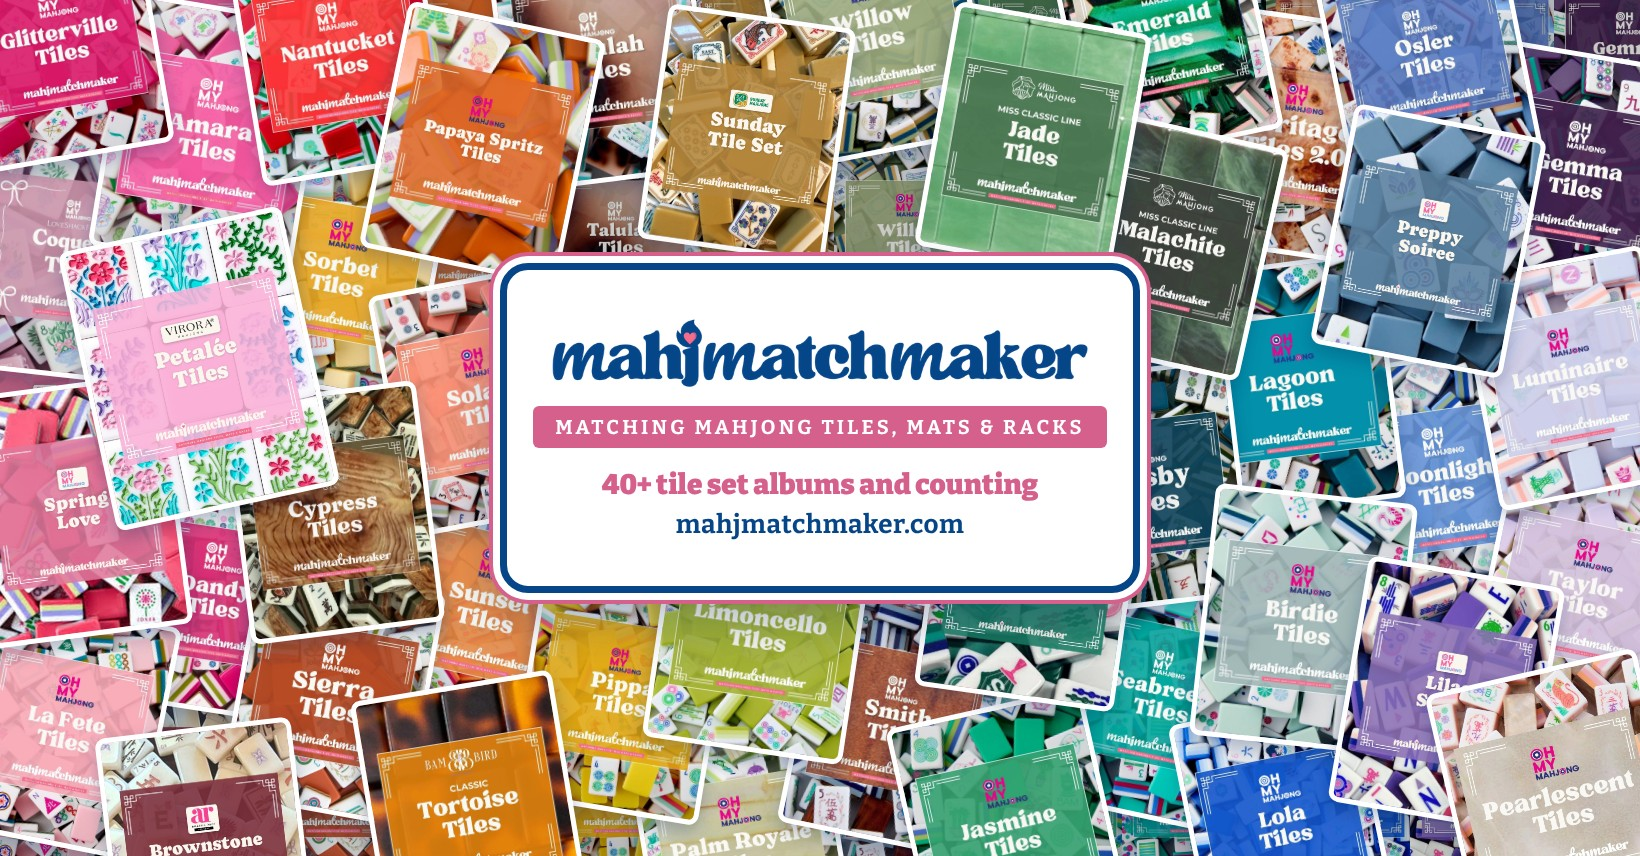
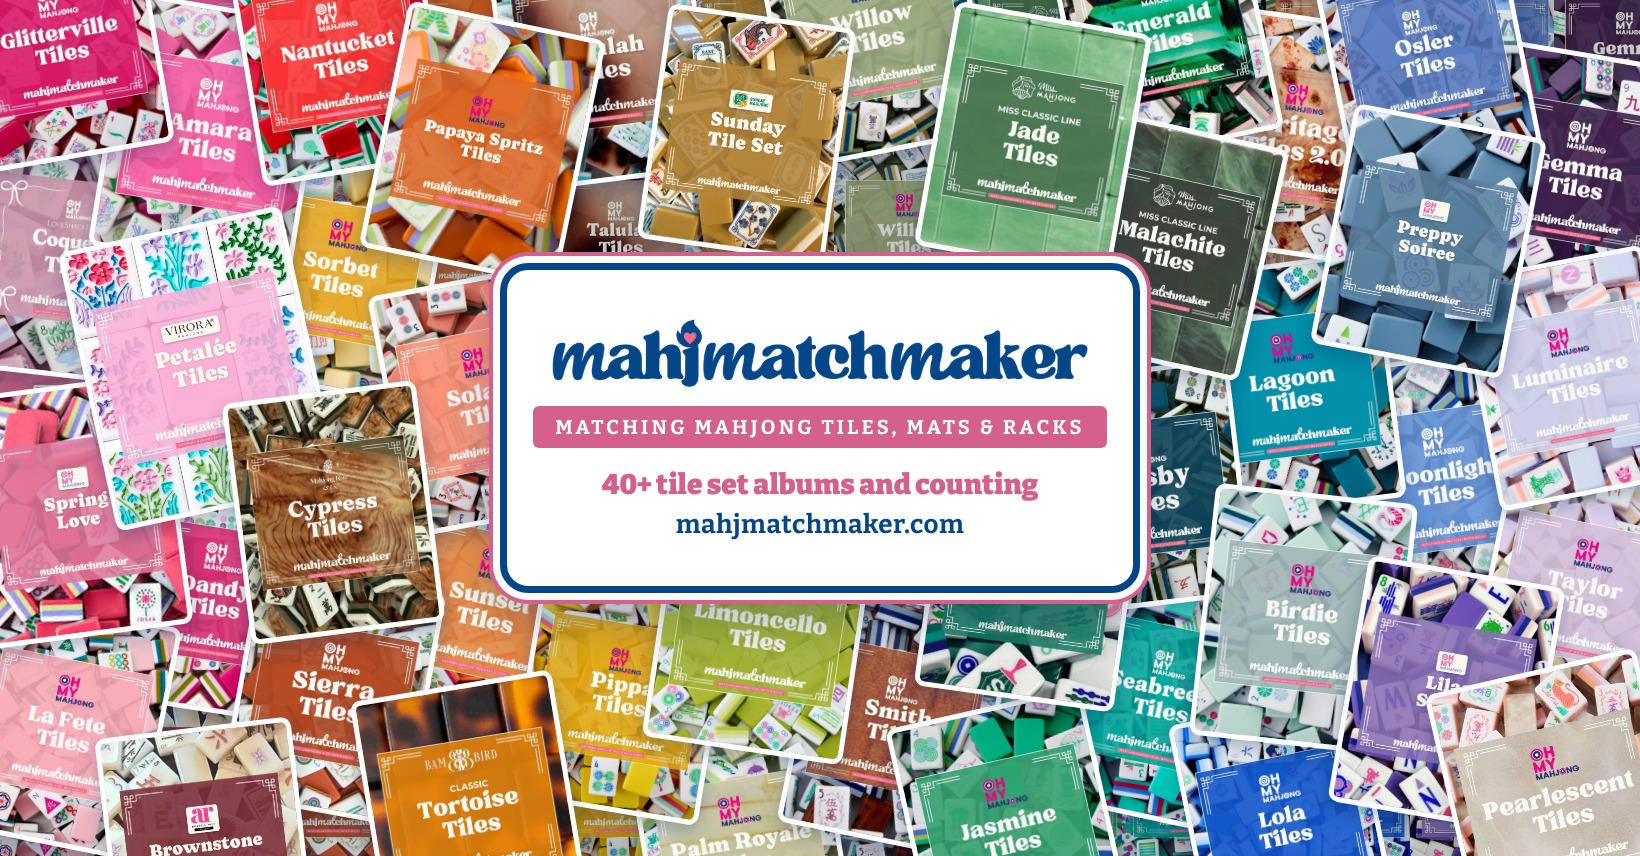
FB cover v6: Petalee's bottom-right corner tucked behind Cypress (her approved tweak)
Claude-Session: https://claude.ai/code/session_014aKoC1ZMdZPjGkZ9kHhnLk

Changed region(s): [[0.1244, 0.4556, 0.2177, 0.6075]]

diff --git a/scripts/fbcover/build_rainbow_v6.py b/scripts/fbcover/build_rainbow_v6.py
@@ -75,6 +75,11 @@ for gy in range(-40,H+40,uh-6):
 z=list(range(1,len(slots)+1));random.shuffle(z)
 NEW={'jade','tortoise','sunday','papaya-spritz','petalee','brownstone','lilac-soiree','preppy-soiree','shangri-la','spring-love'}
 z=[zz+(400 if assign[slots[k]] in NEW else 0)+(40 if assign[slots[k]] in ('papaya-spritz','petalee','jade') else 0)+(20 if assign[slots[k]]=='malachite' else 0)+(600 if assign[slots[k]]=='pearlescent' else 0)-(30 if assign[slots[k]]=='lilac-soiree' else 0) for k,zz in enumerate(z)]
+# Oct 18 (Tiffany): tuck Petalee's bottom-right corner behind Cypress -> nearest Cypress card to Petalee's lower right sits above it
+_pk=[k for k,s in enumerate(slots) if assign[s]=='petalee'][0]; _ps=slots[_pk]
+_ck=min([k for k,s in enumerate(slots) if assign[s]=='cypress-forest'],key=lambda k:(slots[k][2]-(_ps[2]+cw*0.6))**2+(slots[k][3]-(_ps[3]+ch*0.6))**2)
+z[_ck]=z[_pk]+1
+print('petalee',_ps,'z',z[_pk],'cypress',slots[_ck],'z',z[_ck])
 for k,s in enumerate(slots):
     b,r,x,y=s;name=assign[s]
     lean=1 if (b+r)%2 else -1
